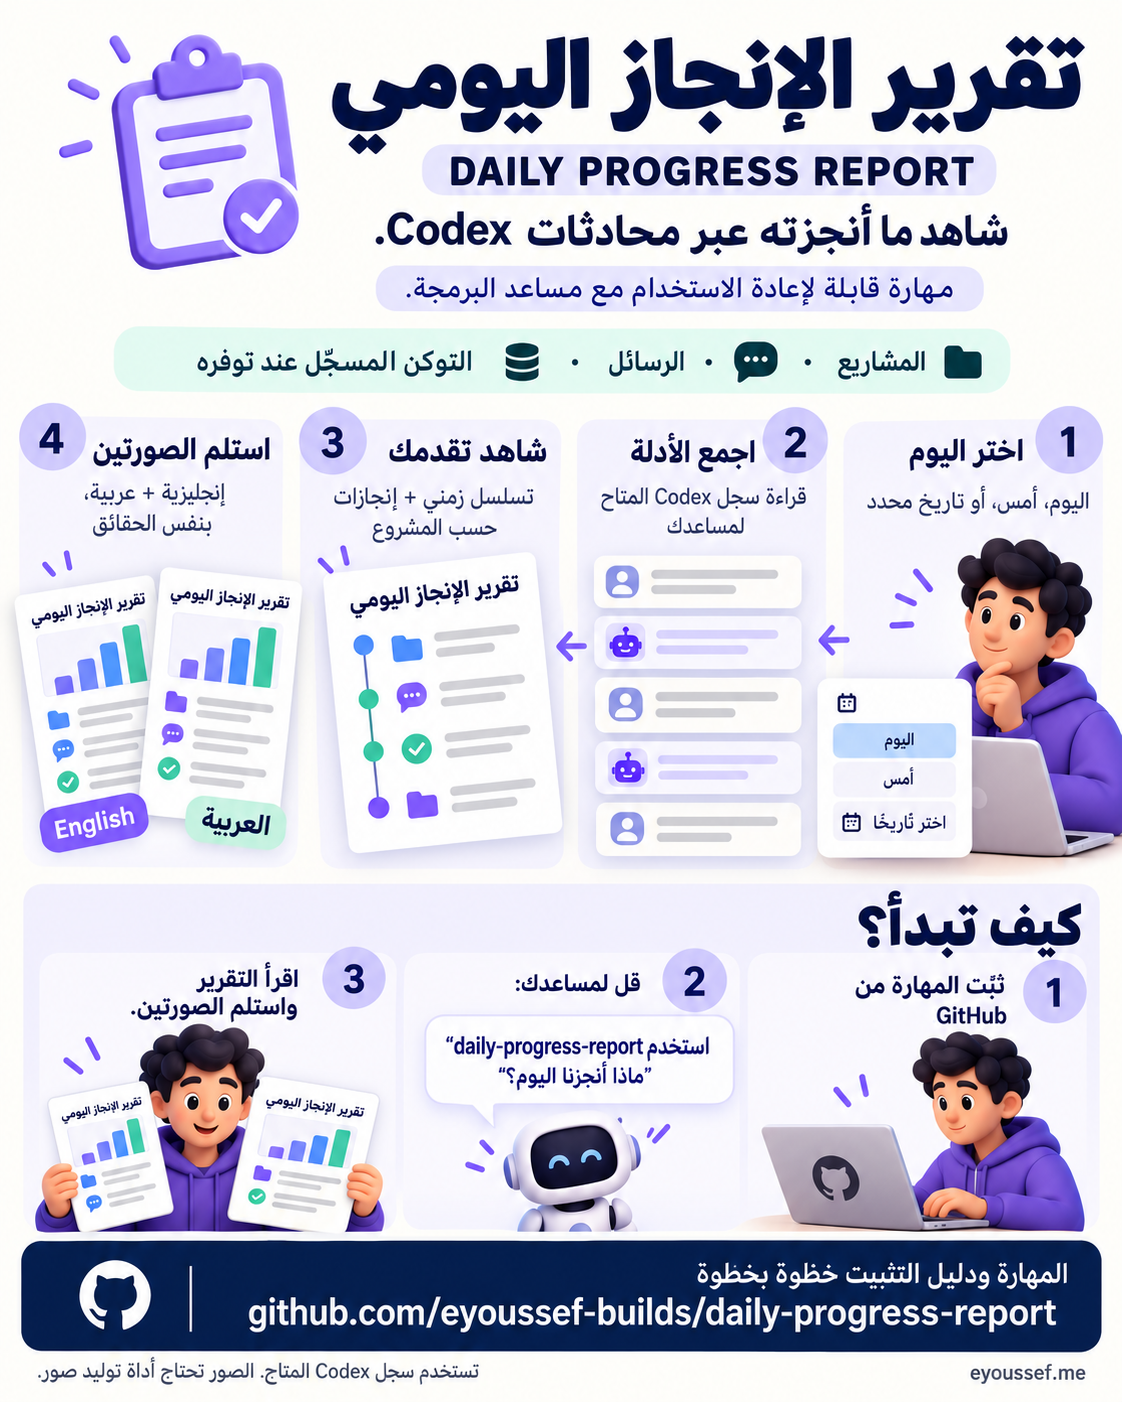
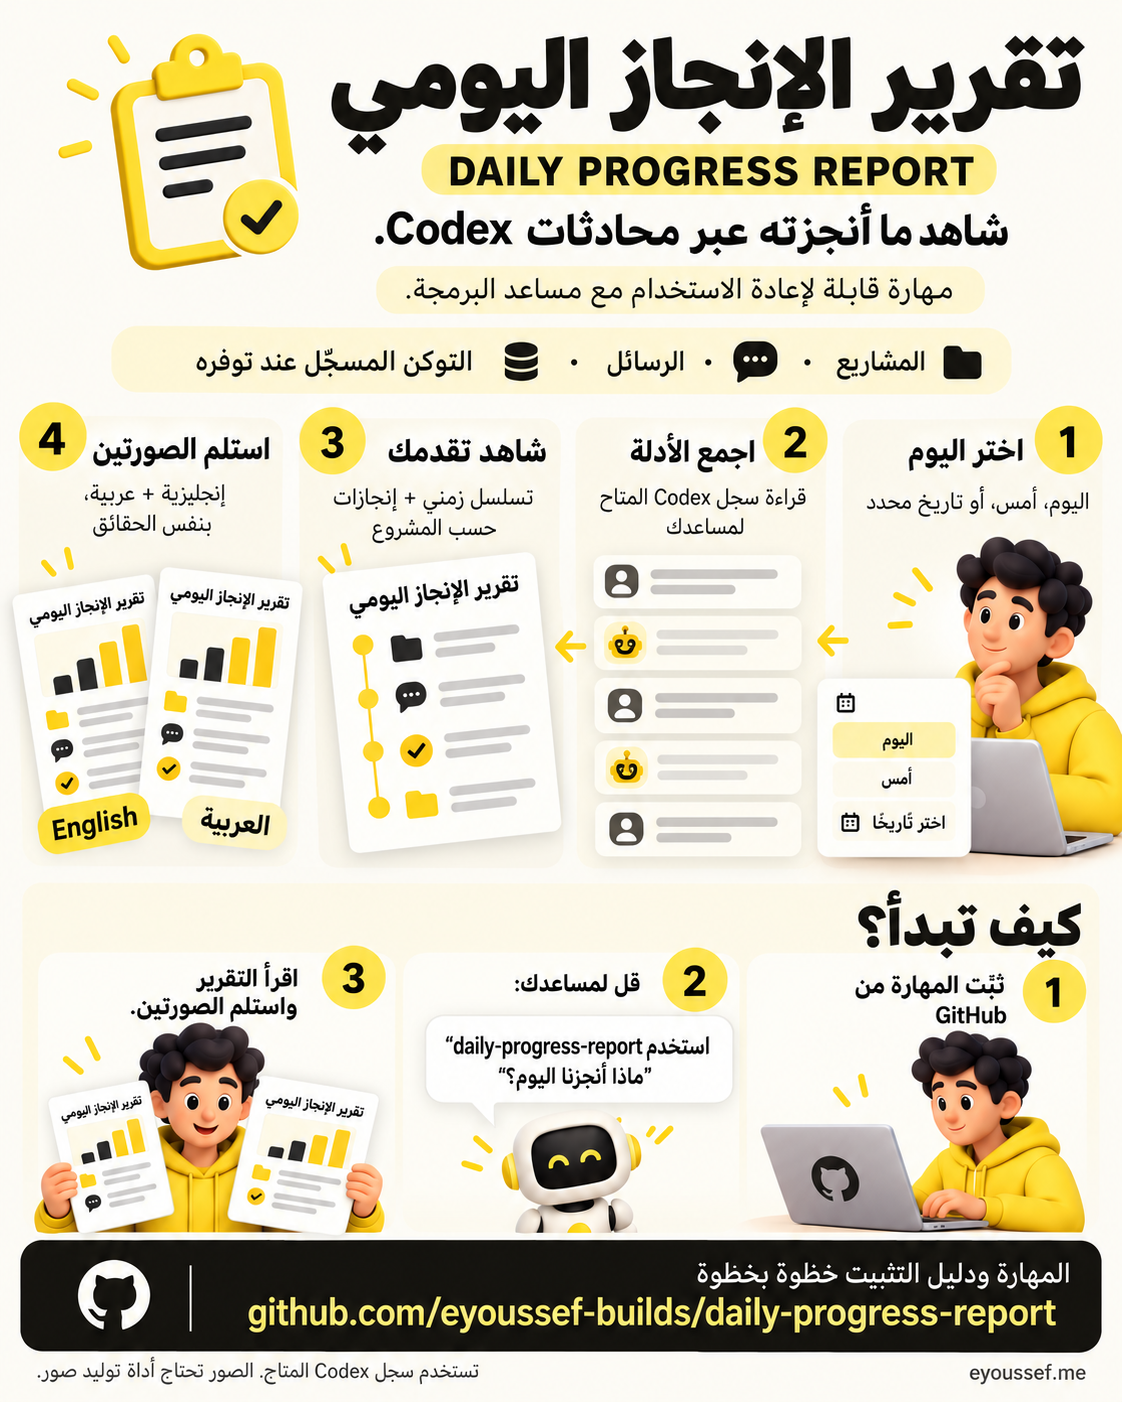
Apply approved yellow, cream and ink infographic branding

diff --git a/skills/daily-progress-report/SKILL.md b/skills/daily-progress-report/SKILL.md
@@ -58,7 +58,7 @@ Use [the report template](assets/report.template.md) as a flexible presentation 
 
 Include a concise day-scale summary: semantically distinct projects, substantive chats/work streams, deduplicated visible messages (user-side/assistant breakdown) and recorded token usage where available. The collector supplies raw message/workspace/token metrics, not a semantic project count. Read the chats to map workspaces and related media work to actual projects; explain uncertain grouping instead of equating folders or threads with projects. Token totals must come from dated per-response records, not lifetime/cumulative counters; cached input and reasoning are subsets, not extra totals. Disclose unavailable/partial sources and automated entries. Never estimate hours saved, billing cost or a productivity multiplier from these counts.
 
-Read [the infographic guide](references/infographic.md) for the two image-generated companions. End every report with both versions: English first, then Arabic. Generate two separate images from the same reconciled facts; do not ask the user to choose a language. Keep unfinished work, blockers and next steps in the written report only; omit them from both images, without presenting unfinished work as complete. Show parallel projects/work streams and their concrete outputs so the composition conveys one person directing multiple kinds of work, without literally claiming “superhuman” ability. Preserve important creation/editing/revision stages separately from publication. Use large readable text, restrained illustration, true statuses and a bottom scale strip with verified metrics. Follow the approved readable illustrated direction: one person directing branches of work, distinct output panels, ample whitespace and a bottom metric strip. Adapt the number of panels to the evidenced day; do not copy a rejected preview. If image generation is unavailable or a text-only report is requested, deliver the factual report and state the visual limitation where relevant.
+Read [the infographic guide](references/infographic.md) for the two image-generated companions. End every report with both versions: English first, then Arabic. Generate two separate images from the same reconciled facts; do not ask the user to choose a language. Keep unfinished work, blockers and next steps in the written report only; omit them from both images, without presenting unfinished work as complete. Show parallel projects/work streams and their concrete outputs so the composition conveys one person directing multiple kinds of work, without literally claiming “superhuman” ability. Preserve important creation/editing/revision stages separately from publication. Use large readable text, restrained illustration, true statuses and a bottom scale strip with verified metrics. Apply [the brand palette](references/brand-style.md): yellow `#FFE04A`, cream `#FAF8F2` and ink `#15130F`. Follow the approved readable illustrated direction: one person directing branches of work, distinct output panels, ample whitespace and a bottom metric strip. Adapt the number of panels to the evidenced day; do not copy a rejected preview. If image generation is unavailable or a text-only report is requested, deliver the factual report and state the visual limitation where relevant.
 
 For a quiet day, keep the format short and say what evidence exists. “No recorded activity found” is different from “nothing was done.” Do not fill an empty day with earlier accomplishments. Do not claim all indexed chats had activity: report date-active main chats/projects separately from helper threads and discovered files.
 

diff --git a/skills/daily-progress-report/references/brand-style.md b/skills/daily-progress-report/references/brand-style.md
@@ -1,0 +1,12 @@
+# Approved infographic brand
+
+The approved infographic palette is bright warm yellow **`#FFE04A`**, warm cream **`#FAF8F2`**, and ink near-black **`#15130F`**. Apply it to English and Arabic infographics, including daily recaps and public skill explainers. This supersedes the earlier navy/purple/pastel direction.
+
+- Use cream for the canvas, ink for titles/body text, and yellow for highlights, numbered steps, arrows, icons and key metrics. Supporting panels may use white, pale warm yellow or warm grayscale. Use ink text on yellow/cream; use yellow or cream text on an ink CTA.
+- Carry the palette through illustration clothing, robots, document/graph accents and panel fills. Keep natural skin/hair. Preserve real supplied product screenshots faithfully rather than recoloring their interfaces.
+- Use confident modern type, generous margins and clear editorial hierarchy. The reference typography direction is Schibsted Grotesk-style English and IBM Plex Sans Arabic-style Arabic. Keep Arabic shaped and RTL, and Western digits `0–9`, identifiers and URLs legible.
+- A restrained sun-disc cue or yellow marker underline may be used when helpful. Preserve an already approved layout, content and illustration style when the request is a color correction. Do not add a portrait, brand name, cover headline, tagline, moon strip or unrelated reference text unless requested.
+- Do not return to purple, lavender, indigo, navy, blue/cyan or mint/green as the default brand palette. A supplied real product screenshot or semantically necessary interface detail can retain its authentic colors.
+- Use this as the default for these infographic templates. An explicit current request or another user's own brand overrides it; this does not impose the creator's branding on software products being built for someone else.
+
+Only public visual specifications are recorded here. No source chat, device paths, account data, reference screenshots or private work are part of this brand note.

diff --git a/skills/daily-progress-report/references/infographic.md b/skills/daily-progress-report/references/infographic.md
@@ -16,7 +16,7 @@ Show one person's day branching into distinct projects/work streams, with concre
 
 Use actual distinct projects when several are evidenced. If the day has one business with analytics, social, website and video work, show one project with four labeled work streams. Never label four chats or two folders as four projects. With verified overlapping turn intervals, illustrate overlap; otherwise use parallel thematic lanes without claiming all tasks ran simultaneously or measuring continuous work time.
 
-Favor immediate readability: large modern sans-serif text, short labels, ample whitespace, restrained background/palette and a few informative illustrations. Avoid busy props, tiny footnotes, walls of text, excessive badges, and a generic dashboard. Use the approved direction: light ivory background, navy typography, softly colored workstream panels, one central operator with an AI hub branching into illustrated outputs, and a prominent bottom metrics strip. Adapt the project/panel count to the day rather than hard-coding four workstreams.
+Favor immediate readability: large modern sans-serif text, short labels, ample whitespace, restrained background/palette and a few informative illustrations. Avoid busy props, tiny footnotes, walls of text, excessive badges, and a generic dashboard. Read [the brand style](brand-style.md) before generation. Use yellow `#FFE04A`, cream `#FAF8F2` and ink `#15130F`: cream canvas, ink typography, yellow emphasis and warm neutral panels, one central operator with an AI hub branching into illustrated outputs, and a prominent bottom metrics strip. Carry the palette through illustrations; preserve the approved composition. This supersedes earlier navy/purple/pastel examples. Adapt the project/panel count to the day rather than hard-coding four workstreams.
 
 ## Preserve the actual work, not only its last action
 

diff --git a/README.ar.md b/README.ar.md
@@ -7,9 +7,9 @@
 <p align="center"><a href="README.md"><b>Read this guide in English</b></a> · <a href="#installation">التثبيت</a> · <a href="#first-use">جرّبها</a> · <a href="#questions">أسئلة وأجوبة</a> · <a href="#share">شاركها</a></p>
 
 <p align="center">
-  <a href="LICENSE"><img alt="MIT license" src="https://img.shields.io/badge/license-MIT-6366f1"></a>
-  <a href="docs/agent-installation.ar.md"><img alt="Guides for 15 agents" src="https://img.shields.io/badge/agent%20guides-15-8b5cf6"></a>
-  <img alt="English and Arabic guides" src="https://img.shields.io/badge/English%20%2B%20Arabic-guides-0e9f8a">
+  <a href="LICENSE"><img alt="MIT license" src="https://img.shields.io/badge/license-MIT-15130F"></a>
+  <a href="docs/agent-installation.ar.md"><img alt="Guides for 15 agents" src="https://img.shields.io/badge/agent%20guides-15-FFE04A"></a>
+  <img alt="English and Arabic guides" src="https://img.shields.io/badge/English%20%2B%20Arabic-guides-15130F">
 </p>
 
 ---

diff --git a/README.md b/README.md
@@ -5,9 +5,9 @@
 <p align="center"><a href="README.ar.md"><b>اقرأ هذا الدليل بالعربية</b></a> · <a href="#installation">Install</a> · <a href="#first-use">Try it</a> · <a href="#questions">Questions &amp; answers</a> · <a href="#share">Share</a></p>
 
 <p align="center">
-  <a href="LICENSE"><img alt="MIT license" src="https://img.shields.io/badge/license-MIT-6366f1"></a>
-  <a href="docs/agent-installation.md"><img alt="Guides for 15 agents" src="https://img.shields.io/badge/agent%20guides-15-8b5cf6"></a>
-  <img alt="English and Arabic guides" src="https://img.shields.io/badge/English%20%2B%20Arabic-guides-0e9f8a">
+  <a href="LICENSE"><img alt="MIT license" src="https://img.shields.io/badge/license-MIT-15130F"></a>
+  <a href="docs/agent-installation.md"><img alt="Guides for 15 agents" src="https://img.shields.io/badge/agent%20guides-15-FFE04A"></a>
+  <img alt="English and Arabic guides" src="https://img.shields.io/badge/English%20%2B%20Arabic-guides-15130F">
 </p>
 
 ---
